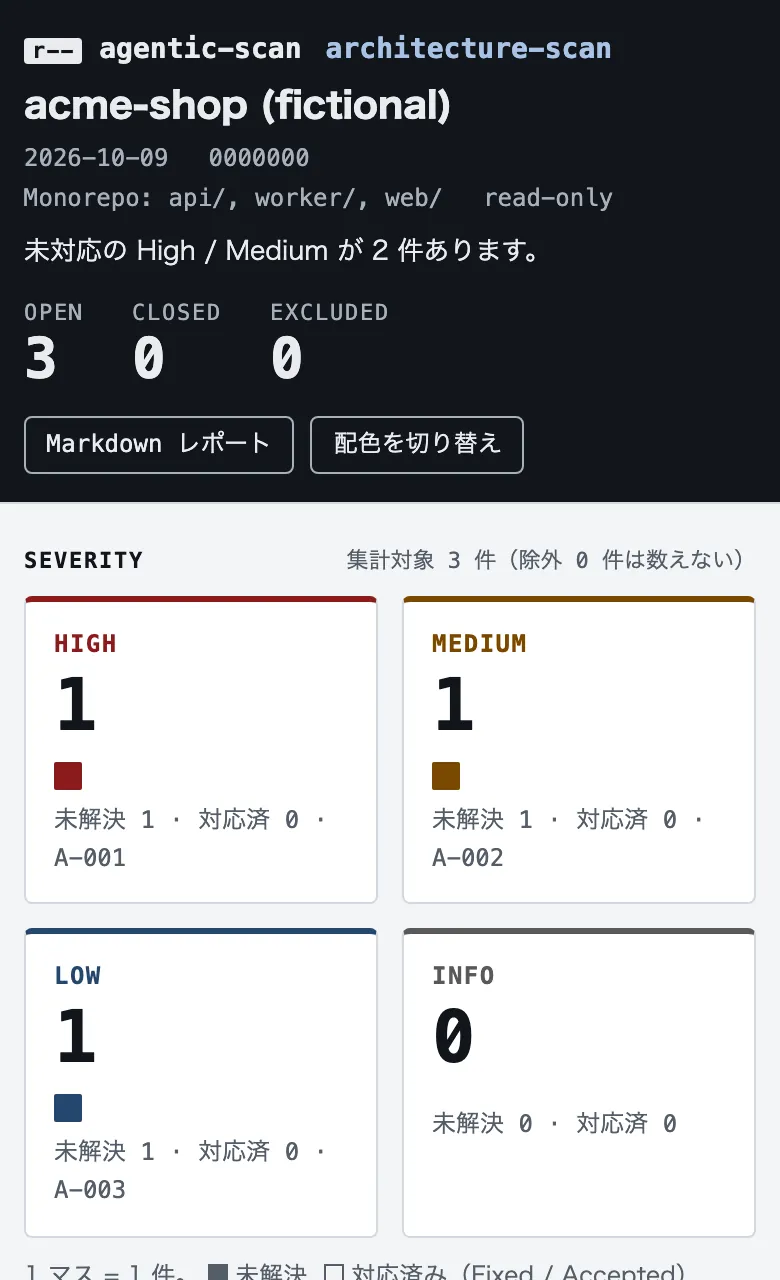
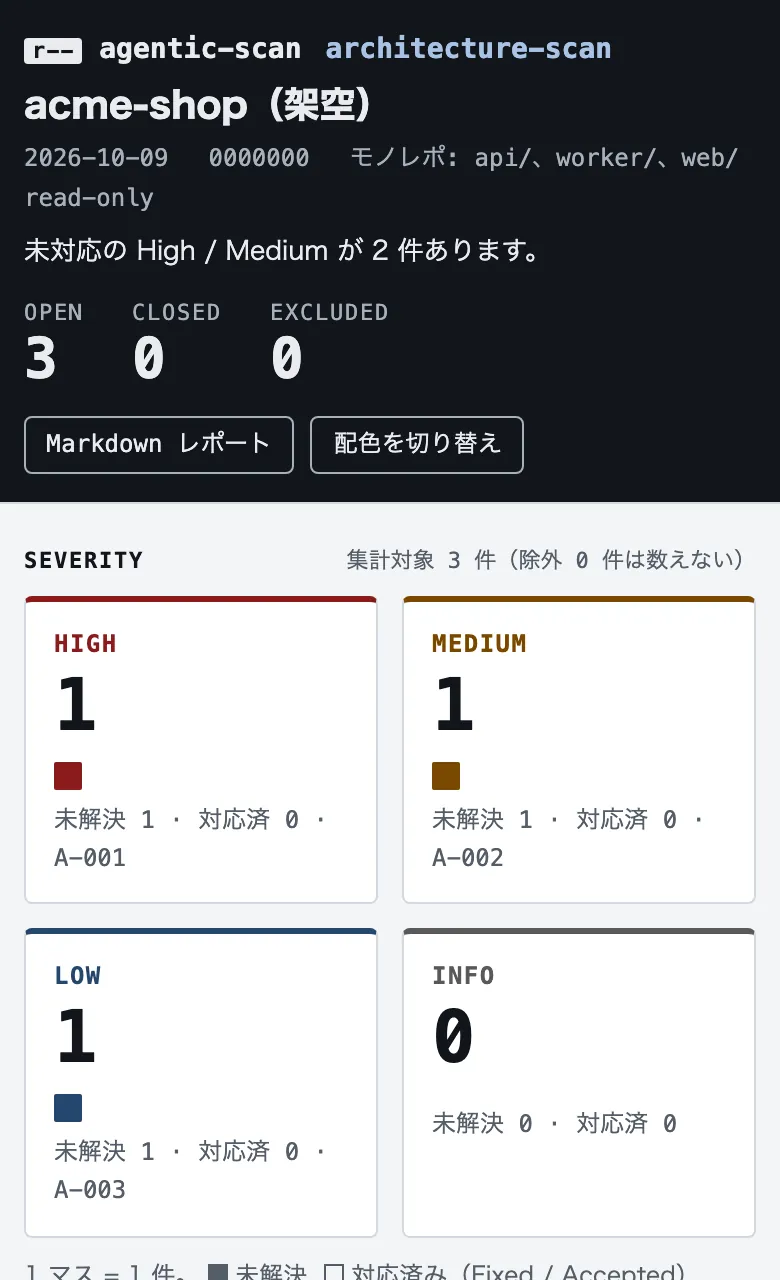
docs(lp): document the bilingual landing page and show Japanese architecture-scan data
Recapture the Japanese page's architecture-scan screenshots from the new
Japanese sample, and describe the language setup in artifacts/lp.

diff --git a/artifacts/lp/README.md b/artifacts/lp/README.md
@@ -12,7 +12,7 @@ On 2026-11-19 the brand was rebuilt in the "terminal / agent" direction.
 
 ## Location and how to open
 
-- Source: `site/` (`index.html`, `styles.css`, `main.js`, `assets/`)
+- Source: `site/` (`index.html`, `ja/index.html`, `styles.css`, `main.js`, `assets/`)
 - Run:
 
   ```sh
@@ -21,6 +21,14 @@ On 2026-11-19 the brand was rebuilt in the "terminal / agent" direction.
   ```
 
 - Build: not needed (no dependencies and no build step)
+
+## Languages
+
+- English is the default: `site/index.html`. The Japanese page is `site/ja/index.html`.
+- Each page links to the other from the header (`日本語` / `English`) and declares the pair with `hreflang`. There is no automatic redirect by browser language.
+- The English page shows the English samples (`examples/findings.sample.json`) and dashboards rendered in English (`assets/en/`); the Japanese page shows the Japanese samples and dashboards (`assets/`).
+- `main.js` picks the copy-button text from the page's `lang`.
+- The evaluation, QA and screenshots below were made on the Japanese page before the English page existed.
 
 ## Final evaluation
 

diff --git a/artifacts/lp/implementation-report.md b/artifacts/lp/implementation-report.md
@@ -58,3 +58,8 @@ No build is needed.
 ## Impact on existing files
 
 Only `site/` and `artifacts/lp/` were touched; the skill directories and the root README / Makefile were not modified. Nothing was committed.
+
+## Later changes
+
+- The dashboard images were replaced with the console-triage dashboards (Japanese).
+- English became the default page (`site/index.html`), with English dashboard images in `site/assets/en/`; the Japanese page moved to `site/ja/index.html`. See the Languages section of `README.md`.
